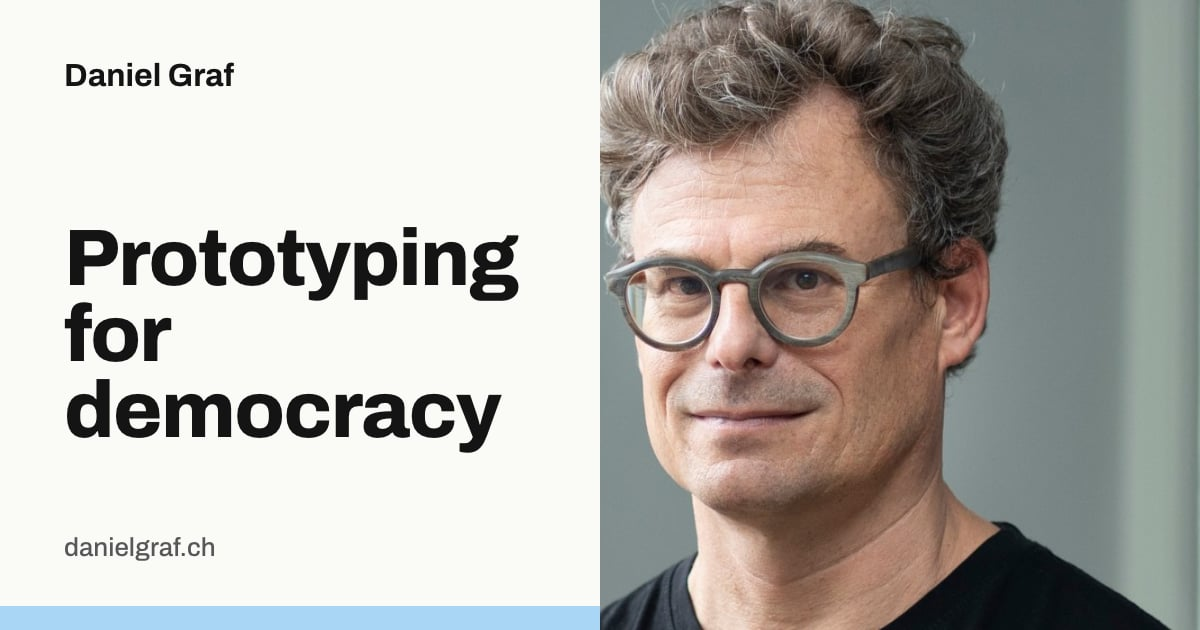
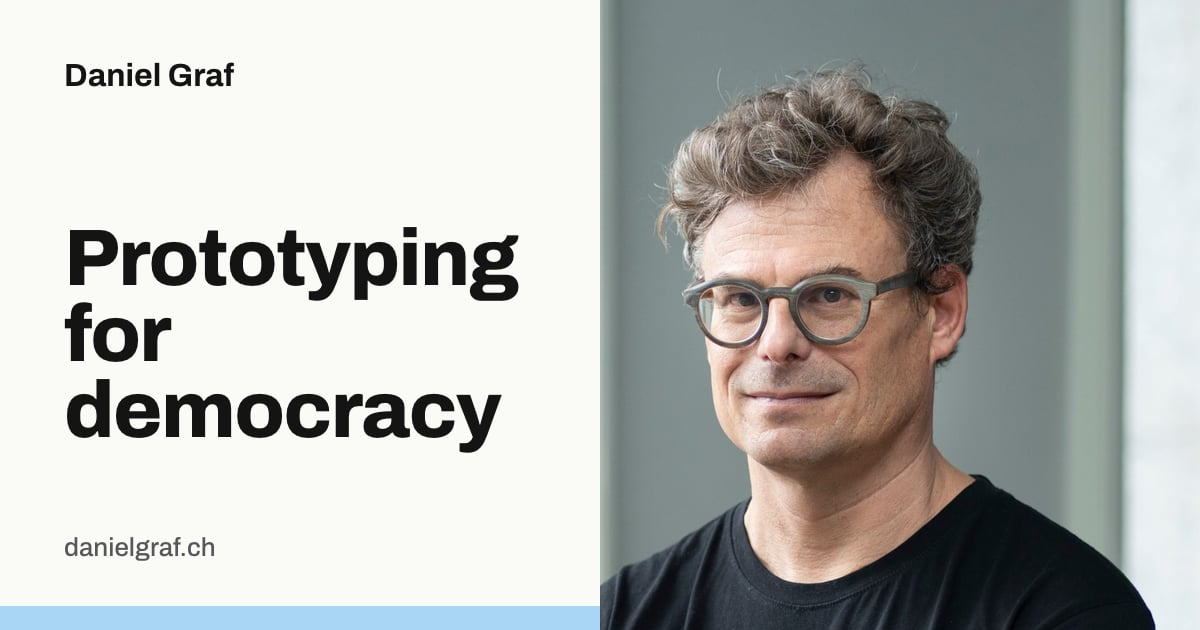
Sharing-Karte: Kopf ganz im Bild
Porträt neu als Ausschnitt aus dem Hochformat daniel-graf.jpg (mehr
Umfeld): Kopf vollständig, rund 57 px Luft zur Kante x 600 und rund 60 px
über dem Haar; beide Brillengläser liegen weiter im Quadrat x 285–915.

diff --git a/scripts/og/karte.html b/scripts/og/karte.html
@@ -32,7 +32,7 @@
 	#titel { font-weight: 800; font-size: 80px; line-height: 0.95; letter-spacing: -0.02em; }
 	#adresse { font-weight: 500; font-size: 26px; color: #57575a; }
 	#streifen { position: absolute; left: 0; top: 606px; width: 600px; height: 24px; background: #a9d6f5; }
-	#bild { position: absolute; left: 600px; top: 0; width: 600px; height: 630px; object-fit: cover; object-position: 75% 50%; display: block; }
+	#bild { position: absolute; left: 600px; top: 0; width: 600px; height: 630px; object-fit: cover; object-position: 50% 50%; /* Ausschnitt setzt das Skript */ display: block; }
 </style>
 </head>
 <body>
